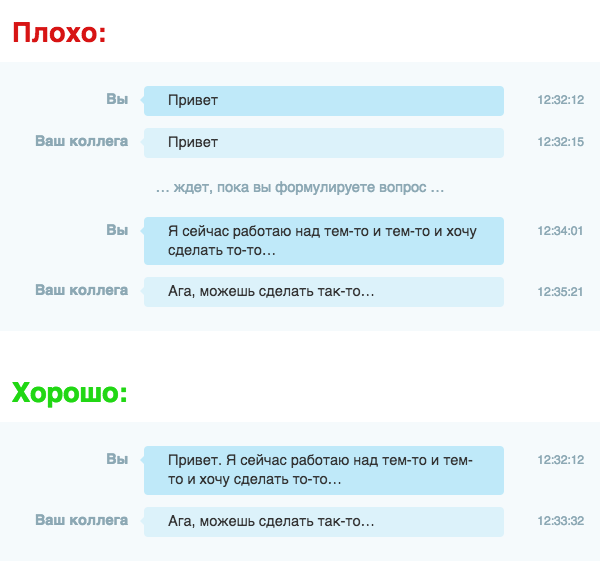
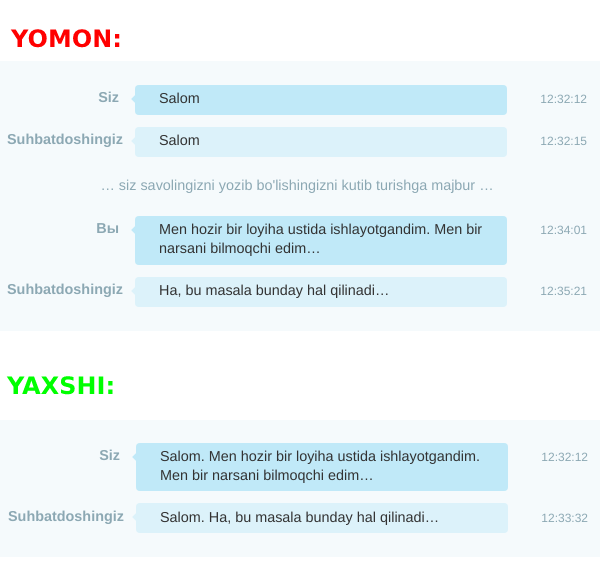
uzbek translation

diff --git a/public/index.html b/public/index.html
@@ -1,150 +1,168 @@
 <!doctype html>
-<html lang="ru">
-    <head prefix="og: http://ogp.me/ns# article: http://ogp.me/ns/article#">
-        <meta charset="utf-8">
-        <meta http-equiv="x-ua-compatible" content="ie=edge">
-        <title>Не привет</title>
-        <meta name="description" content="Почему не нужно писать «Привет» первым сообщением в чате. Простое правило, которым нужно пользоваться всем, для улучшения коммуникации в чатах и мессенджерах.">
-        <meta name="keywords" content="чат, skype, переписка, привет, сетевой этикет, деловой этикет, правила чата, правила общения в чате" />
-        <meta property="og:title" content="Не пишите просто «Привет» в чате" />
-        <meta property="og:description" content="Почему не нужно писать «Привет» первым сообщением в чате. Простое правило, которым нужно пользоваться всем, для улучшения коммуникации в чатах и мессенджерах." />
-        <meta property="og:type" content="article" />
-        <meta property="og:type" content="article" />
-        <meta property="og:locale" content="ru_RU" />
-        <meta property="og:site_name" content="Не привет" />
-        <meta property="og:url" content="https://neprivet.ru" />
+<html lang="uz">
 
-        <meta property="og:image" content="https://neprivet.ru/img/og-dialog.png" />
-        <meta property="og:image:type" content="image/png" />
-        <meta property="og:image:width" content="527" />
-        <meta property="og:image:height" content="300" />
+<head prefix="og: http://ogp.me/ns# article: http://ogp.me/ns/article#">
+  <meta charset="utf-8">
+  <meta http-equiv="x-ua-compatible" content="ie=edge">
+  <title>Nometa</title>
+  <meta name="description" content="Nima uchun chatlarda shunchaki Salom deb yozmaslik kerak? Sababi messenjerlar va
+    chatlarda foydalanuvchilar tomonidan amal qilinishi kerak bo'lgan oddiy va zaruriy qoidalar mavjud.">
+  <meta name="keywords"
+    content="chat, skype,, telegram, guruhlar, yozishmalar, salom, tarmoqdagi madaniyat, rasmiy madaniyat, chat qoidalari, chatlarda suhbatlashish qoidalari" />
+  <meta property="og:title" content="Chatlarda shunchaki Salom deb yozmang" />
+  <meta property="og:description" content="Nima uchun chatlarda shunchaki Salom deb yozmaslik kerak? Sababi messenjerlar va
+    chatlarda foydalanuvchilar tomonidan amal qilinishi kerak bo'lgan oddiy va zaruriy qoidalar mavjud." />
+  <meta property="og:type" content="article" />
+  <meta property="og:type" content="article" />
+  <meta property="og:locale" content="uz_UZ" />
+  <meta property="og:site_name" content="Nometa" />
+  <meta property="og:url" content="https://nometa.uz" />
 
-        <meta property="og:image" content="https://neprivet.ru/img/bad-good.png" />
-        <meta property="og:image:type" content="image/png" />
-        <meta property="og:image:width" content="600" />
-        <meta property="og:image:height" content="580" />
+  <meta property="og:image" content="https://nometa.uz/img/og-dialog.png" />
+  <meta property="og:image:type" content="image/png" />
+  <meta property="og:image:width" content="527" />
+  <meta property="og:image:height" content="300" />
 
-        <meta property="article:tag" content="чат, skype, переписка, привет, сетевой этикет, деловой этикет, правила чата, правила общения в чате">
-        <meta name="viewport" content="width=device-width, initial-scale=1">
-        <link rel="stylesheet" media="screen" href="./css/main.css">
-    </head>
-    <body>
-        <article>
+  <meta property="og:image" content="https://nometa.uz/img/bad-good.png" />
+  <meta property="og:image:type" content="image/png" />
+  <meta property="og:image:width" content="600" />
+  <meta property="og:image:height" content="580" />
 
-<h1>Пожалуйста, не пишите просто «Привет» в чате</h1>
-<div class="dialog-block">
-    <div class="dialog-line -you">
-        <div class="name">Вы</div>
+  <meta property="article:tag"
+    content="chat, skype, telegram, guruhlar, yozishmalar, salom, tarmoqdagi madaniyat, rasmiy madaniyat, chat qoidalari, chatlarda suhbatlashish qoidalari">
+  <meta name="viewport" content="width=device-width, initial-scale=1">
+  <link rel="stylesheet" media="screen" href="./css/main.css">
+</head>
+
+<body>
+  <article>
+
+    <h1>Iltimos, chatda meta savollar bermang!</h1>
+    <div class="dialog-block">
+      <div class="dialog-line -you">
+        <div class="name">Siz</div>
         <div class="content">
-          Привет
+          Salom
           <span class="time">12:32:12</span>
         </div>
-    </div>
-    <div class="dialog-line -he">
-        <div class="name">Ваш коллега</div>
+      </div>
+      <div class="dialog-line -he">
+        <div class="name">Suhbatdoshingiz</div>
         <div class="content">
-          Привет
+          Salom
           <span class="time">12:32:15</span>
         </div>
-    </div>
-    <div class="dialog-comment">
-      … ждет, пока вы формулируете вопрос …
-    </div>
-    <div class="dialog-line -you">
+      </div>
+      <div class="dialog-comment">
+        … siz savolingizni yozib bo'lishingizni kutib turishga majbur …
+      </div>
+      <div class="dialog-line -you">
         <div class="name">Вы</div>
         <div class="content">
-          Я сейчас работаю над тем-то и тем-то и хочу сделать то-то…
+          Men hozir bir loyiha ustida ishlayotgandim. Men bir narsani bilmoqchi edim…
           <span class="time">12:34:01</span>
         </div>
-    </div>
-    <div class="dialog-line -he">
-        <div class="name">Ваш коллега</div>
+      </div>
+      <div class="dialog-line -he">
+        <div class="name">Suhbatdoshingiz</div>
         <div class="content">
-          Ага, можешь сделать так-то…
+          Ha, bu masala bunday hal qilinadi…
           <span class="time">12:35:21</span>
         </div>
+      </div>
     </div>
-</div>
 
-<p>Получается, как будто вы звоните кому-то по телефону, говорите «Привет!» и ставите его на ожидание.</p>
+    <p>Bu huddi kimgadir telefon qilib "Salom!" deb keyin uni kutish rejimiga o'tkazib qo'ygandek holatga o'xshaydi.</p>
 
-<p>Лучше делать так:</p>
+    <p>Undan ko'ra mana bu usul qulayroq:</p>
 
-<div class="dialog-block">
-    <div class="dialog-line -you">
-        <div class="name">Вы</div>
+    <div class="dialog-block">
+      <div class="dialog-line -you">
+        <div class="name">Siz</div>
         <div class="content">
-          Привет. Я сейчас работаю над тем-то и тем-то и хочу сделать то-то…
+          Salom. Men hozir bir loyiha ustida ishlayotgandim. Men bir narsani bilmoqchi edim…
           <span class="time">12:32:12</span>
         </div>
-    </div>
-    <div class="dialog-line -he">
-        <div class="name">Ваш коллега</div>
+      </div>
+      <div class="dialog-line -he">
+        <div class="name">Suhbatdoshingiz</div>
         <div class="content">
-          Привет. Ага, можешь сделать так-то…
+          Salom. Ha, bu masala bunday hal qilinadi…
           <span class="time">12:33:32</span>
         </div>
+      </div>
     </div>
-</div>
 
-<p>Заметьте, вы получаете обратную связь быстрее и не заставляете собеседника ждать, и он начинает думать над вашим вопросом сразу.</p>
+    <p>E'tibor bergan bo'lsangiz, siz savolingizga tezda javob olishdan tashqari suhbatdoshingiz kuttirib ham
+      qo'ymaysiz, chunki u xabarni o'qiboq savolni javobini izlashga tushadi.</p>
 
-<p>Вы стараетесь быть вежливым, не переходя сразу к своей проблеме, как люди делают при личной встрече. Но чат — это совсем другое. Люди печатают намного медленнее, чем говорят. Вместо проявления вежливости, вы заставляете другого человека ждать, пока сформулируете вопрос, что приводит к потере производительности.</p>
+    <p>Odamlar odatda yuzma-yuz ko'rishganda muammo haqida gapirishdan avval xushmuomala bo'lishga, hol-ahvol so'rashga
+      odatlanishgan. Lekin chatlar - bu umuman boshqa holat. Odamlar yozishga gapirishdan ko'ra ko'proq vaqt
+      sarflashadi. Siz unga xushmuomalalik bilan murojaat qilishni maqsad qilganingiz bilan, aslida ularning vaqtini va
+      ish samaradorligini tushishiga sababchi bo'lasiz.</p>
 
-<p>То же самое относится к таким сообщениям: «Здравствуйте», «Привет. Ты здесь?», «Здорова! Есть вопрос», «Есть минутка?», «Пинг». Просто задавайте вопрос!</p>
+    <p>Bundan tashqari yuqoridagi holatlar: "Assalomu alaykumlar!", "Salom. Shu yerdamisiz?", "Salom! Savol bor edi",
+      "Aka vaqtingiz bormidi?", "Alo yordamingiz kerak edi" kabi jumlalarga ham taaluqli. Shunchaki ushbu xabarlarga
+      qo'shib, savolingizni ham yuboring, bo'ldi!</p>
 
-<p>Если вам кажется бесцеремонным просто сказать «Привет» и тут же задать вопрос, можете сделать так:</p>
+    <p>Agar siz shunchaki "Salom" deyishni va darhol savol berishni ma'qul deb hisoblasangiz, bunday uslubdan
+      foydalanishingiz mumkin:</p>
 
-<div class="dialog-block">
-    <div class="dialog-line -you">
+    <div class="dialog-block">
+      <div class="dialog-line -you">
         <div class="name">Вы</div>
         <div class="content">
-          Привет. Если ты сейчас не занят, я хотел поинтересоваться: могу ли я задать тебе вопрос? Я сейчас работаю над тем-то и тем-то и хочу сделать то-то…
+          Salom. Agar band bo'lmasangiz savolim bor edi. Men hozir bir loyiha ustida ishlayotgandim va bir narsani
+          bilmoqchi edim…
           <span class="time">12:32:12</span>
         </div>
+      </div>
     </div>
-</div>
 
-<p>К тому же, когда вы задаете вопрос сразу, открывается возможность асинхронного взаимодействия. Если собеседник недоступен, а вы уйдете до того как он вернется, он по-прежнему может ответить на вопрос, вместо того, чтобы смотреть на ваш «Привет» и думать, что же случилось.</p>
-<hr />
-<p>Если вы увидели у кого-то в статусе ссылку на эту статью, будьте готовы, что ваш собеседник проигнорирует сообщение с одним «приветом».</p>
-<p>Ссылка на эту страницу: <a href="https://neprivet.ru">https://neprivet.ru</a></p>
-<p>Суть одной картинкой: <a href="https://neprivet.ru/img/bad-good.png">https://neprivet.ru/img/bad-good.png</a></p>
+    <p>Bundan tashqari, siz darhol savol berganda, asinxron aloqa uchun imkoniyat ochiladi. Agar boshqa odam topilmasa
+      va siz u qaytib kelguncha ketayotgan bo'lsangiz, u sizning "Salom" ga qarash va nima bo'lganiga hayron bo'lish
+      o'rniga, savolingizga javob berishi mumkin.</p>
+    <hr />
+    <p>Agar kimningdir statusida ushbu maqolaga link ko'rsangiz, xulosa qilishingiz mumkinki odatda u inson shunchaki
+      "salom" deb yozilgan xabarlarni e'tiborsiz qoldiradi.</p>
+    <p>Ushbu sahifaga link: <a href="https://nometa.uz">https://nometa.uz</a></p>
+    <p>Hammasi bitta rasmda: <a href="https://nometa.uz/img/bad-good.png">https://nometa.uz/img/bad-good.png</a></p>
 
-<div id="social_links">
-    <div class="fb-like" data-href="https://neprivet.ru" data-layout="button_count" data-action="like" data-size="large" data-show-faces="false" data-share="true"></div>
+    <div id="social_links">
+      <div class="fb-like" data-href="https://nometa.uz" data-layout="button_count" data-action="like" data-size="large"
+        data-show-faces="false" data-share="true"></div>
 
-    <div id="vk_share">
+      <div id="vk_share">
         <!-- Put this script tag to the <head> of your page -->
         <script type="text/javascript" src="https://vk.com/js/api/share.js?94" charset="windows-1251"></script>
         <!-- Put this script tag to the place, where the Share button will be -->
-        <script type="text/javascript"><!--
-        document.write(VK.Share.button(false,{type: "custom", text: "<img src=\"https://vk.com/images/share_32.png\" width=\"28\" height=\"28\" />"}));
-        --></script>
+        <script type="text/javascript">< !--
+            document.write(VK.Share.button(false, { type: "custom", text: "<img src=\"https://vk.com/images/share_32.png\" width=\"28\" height=\"28\" />" }));
+        </script>
+      </div>
     </div>
-</div>
-        </article>
-        <footer>
-<div class="row">
-  Оригинал&nbsp;— <a href="http://www.nohello.com">www.nohello.com</a> (автор Brandon High), перевод на
-  <a href="https://github.com/kryzhovnik/neprivet">
-    Гитхабе
-    <svg aria-hidden="true" id="octicon-icon" height="24" version="1.1" viewBox="0 0 16 16" width="24"><path fill-rule="evenodd" d="M8 0C3.58 0 0 3.58 0 8c0 3.54 2.29 6.53 5.47 7.59.4.07.55-.17.55-.38 0-.19-.01-.82-.01-1.49-2.01.37-2.53-.49-2.69-.94-.09-.23-.48-.94-.82-1.13-.28-.15-.68-.52-.01-.53.63-.01 1.08.58 1.23.82.72 1.21 1.87.87 2.33.66.07-.52.28-.87.51-1.07-1.78-.2-3.64-.89-3.64-3.95 0-.87.31-1.59.82-2.15-.08-.2-.36-1.02.08-2.12 0 0 .67-.21 2.2.82.64-.18 1.32-.27 2-.27.68 0 1.36.09 2 .27 1.53-1.04 2.2-.82 2.2-.82.44 1.1.16 1.92.08 2.12.51.56.82 1.27.82 2.15 0 3.07-1.87 3.75-3.65 3.95.29.25.54.73.54 1.48 0 1.07-.01 1.93-.01 2.2 0 .21.15.46.55.38A8.013 8.013 0 0 0 16 8c0-4.42-3.58-8-8-8z"></path></svg>
-  </a>
-</div>
+  </article>
+  <footer>
+    <div class="row">
+      Asl manbaa&nbsp;— <a href="http://www.nohello.com">www.nohello.com</a> (muallif: Brandon High),
+      <a href="https://github.com/vodiylik/nohello">
+        <svg aria-hidden="true" id="octicon-icon" height="24" version="1.1" viewBox="0 0 16 16" width="24">
+          <path fill-rule="evenodd"
+            d="M8 0C3.58 0 0 3.58 0 8c0 3.54 2.29 6.53 5.47 7.59.4.07.55-.17.55-.38 0-.19-.01-.82-.01-1.49-2.01.37-2.53-.49-2.69-.94-.09-.23-.48-.94-.82-1.13-.28-.15-.68-.52-.01-.53.63-.01 1.08.58 1.23.82.72 1.21 1.87.87 2.33.66.07-.52.28-.87.51-1.07-1.78-.2-3.64-.89-3.64-3.95 0-.87.31-1.59.82-2.15-.08-.2-.36-1.02.08-2.12 0 0 .67-.21 2.2.82.64-.18 1.32-.27 2-.27.68 0 1.36.09 2 .27 1.53-1.04 2.2-.82 2.2-.82.44 1.1.16 1.92.08 2.12.51.56.82 1.27.82 2.15 0 3.07-1.87 3.75-3.65 3.95.29.25.54.73.54 1.48 0 1.07-.01 1.93-.01 2.2 0 .21.15.46.55.38A8.013 8.013 0 0 0 16 8c0-4.42-3.58-8-8-8z">
+          </path>
+        </svg>GitHub
+      </a> da tarjima
+    </div>
 
-<div id="fb-root"></div>
-<script>(function(d, s, id) {
-  var js, fjs = d.getElementsByTagName(s)[0];
-  if (d.getElementById(id)) return;
-  js = d.createElement(s); js.id = id;
-  js.src = "//connect.facebook.net/ru_RU/sdk.js#xfbml=1&version=v2.8&appId=246806635770676";
-  fjs.parentNode.insertBefore(js, fjs);
-}(document, 'script', 'facebook-jssdk'));</script>
+    <div id="fb-root"></div>
+    <script>(function (d, s, id) {
+        var js, fjs = d.getElementsByTagName(s)[0];
+        if (d.getElementById(id)) return;
+        js = d.createElement(s); js.id = id;
+        js.src = "//connect.facebook.net/ru_RU/sdk.js#xfbml=1&version=v2.8&appId=246806635770676";
+        fjs.parentNode.insertBefore(js, fjs);
+      }(document, 'script', 'facebook-jssdk'));</script>
+  </footer>
+</body>
 
-
-
-<!-- Yandex.Metrika counter --> <script type="text/javascript"> (function (d, w, c) { (w[c] = w[c] || []).push(function() { try { w.yaCounter42718354 = new Ya.Metrika({ id:42718354, clickmap:true, trackLinks:true, accurateTrackBounce:true }); } catch(e) { } }); var n = d.getElementsByTagName("script")[0], s = d.createElement("script"), f = function () { n.parentNode.insertBefore(s, n); }; s.type = "text/javascript"; s.async = true; s.src = "https://mc.yandex.ru/metrika/watch.js"; if (w.opera == "[object Opera]") { d.addEventListener("DOMContentLoaded", f, false); } else { f(); } })(document, window, "yandex_metrika_callbacks"); </script> <noscript><div><img src="https://mc.yandex.ru/watch/42718354" style="position:absolute; left:-9999px;" alt="" /></div></noscript> <!-- /Yandex.Metrika counter -->
-        </footer>
-    </body>
 </html>

diff --git a/README.md b/README.md
@@ -1,8 +1,9 @@
 # Ne Privet
 
-This is Russian translation of the classical [www.nohello.com](http://www.nohello.com) page. The translation is hosted on [https://neprivet.ru](https://neprivet.ru).
+This is Uzbek translation of the classical [www.nohello.com](http://www.nohello.com) page. The translation is hosted on [https://nometa.uz](https://neprivet.ru).
 
 ## Contributors
 
-* [Brandon High](https://plus.google.com/109027777332815018147): author of the original text
-* [Andrey Samsonov](https://github.com/kryzhovnik): russian translation
+- [Brandon High](https://plus.google.com/109027777332815018147): author of the original text
+- [Andrey Samsonov](https://github.com/kryzhovnik): russian translation
+- [Shukrullo Turgunov](https://github.com/vodiylik): uzbek translation
